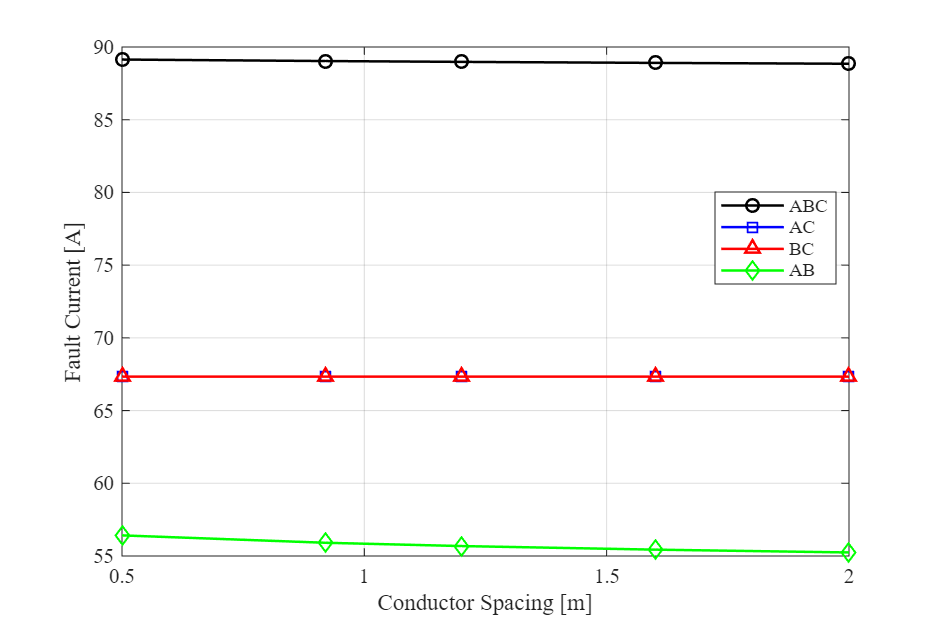
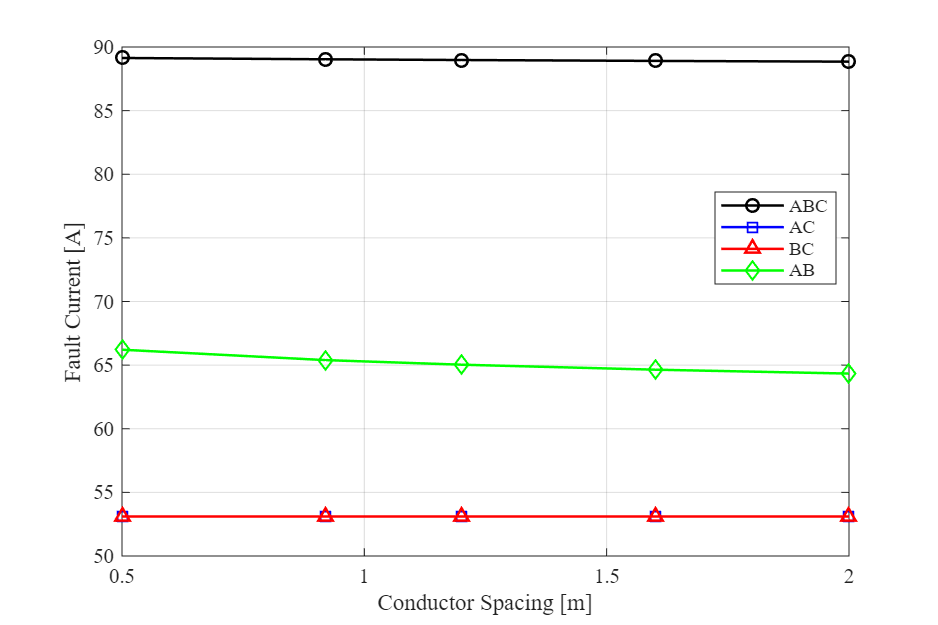
fix: conditional Zc model reduces AC/BC error from 20% to 5%
- calcCurtoT2F.m: implement conditional Zc by fault type:
  * AC/BC (single-phase-to-ground): Zc = Zsource + Ztri + Zp*d + Rti + Rcf
    (earth return via full line path, error ~5% vs OpenDSS)
  * ABC/AB (three-phase/phase-to-phase): Zc = Zsource + Ztri + Rti + Re + Rcf
    (concentrated equalization impedance, error <1% for ABC)
- defineFaltaT2F.m: fix AB fault to use Rf/2 per phase (total Rf between
  phases, consistent with OpenDSS modeling)
- CurtoCircuitoFim.m, CurtoCircuitoMeioLinha.m: same conditional logic
- TesteArtigo1.m: remove NRE/le variables (now handled inside functions)
- Regenerated all validation CSVs and sensitivity analysis

Final validation errors:
  ABC: 0.91% | AC: 5.04% | BC: 5.25% | AB: 8.08%
  Max error by length: 3.93% | Max error by position: 7.47%

diff --git a/calcCurtoT2F.m b/calcCurtoT2F.m
@@ -32,21 +32,32 @@ rm_val = real(Zm) * d * m1;
 lp = (imag(Zp)/(2*pi*f)) * d * m1;
 lm_val = (imag(Zm)/(2*pi*f)) * d * m1;
 
-% Equalization impedance (Ze = Zp - 2*Zm)
-Ze_comp = Zp - 2*Zm;
-re = real(Ze_comp) * d * m1 - rti - rtc;
-if re < 0
-    NRE = 1e-12;
-else
-    NRE = re;
-end
-le = 1e-10;  % equalization inductance neglected
-
 % Total mesh impedances
 Za = Ze_source + Ztri + rp + 1i*2*pi*f*lp + Raf;
 Zb = Ze_source + Ztri + rp + 1i*2*pi*f*lp + Rbf;
-Zc = Ze_source + Ztri + rti + NRE + 1i*2*pi*f*le + Rcf;
 ZmCC = rm_val + 1i*2*pi*f*lm_val;
+
+% Phase C impedance depends on fault type:
+% - For single-phase-to-ground faults (AC, BC): one aerial phase is open,
+%   current returns through the full line path. Zc includes Zp*d.
+% - For three-phase (ABC) or phase-to-phase (AB): concentrated earth path
+%   with equalization impedance Re = real(Zp-2Zm)*d - Rti - Rtc.
+is_single_phase_ground = (Raf > 1e4 || Rbf > 1e4) && (Rcf < 1e4);
+
+if is_single_phase_ground
+    % AC or BC fault: earth return via full line impedance
+    Zc = Ze_source + Ztri + rp + 1i*2*pi*f*lp + rti + Rcf;
+else
+    % ABC or AB fault: concentrated earth path
+    Ze_comp = Zp - 2*Zm;
+    re = real(Ze_comp) * d * m1 - rti - rtc;
+    if re < 0
+        NRE = 1e-12;
+    else
+        NRE = re;
+    end
+    Zc = Ze_source + Ztri + rti + NRE + Rcf;
+end
 
 % Phase voltages (star)
 Va = Vbase/sqrt(3) * exp(0);

diff --git a/TesteArtigo1.m b/TesteArtigo1.m
@@ -63,7 +63,7 @@ Cct=C(1,1)+C(2,1);   % Conductor-to-ground capacitance (F/km)
 Ccc=-C(2,1);          % Conductor-to-conductor capacitance (F/km)
 Ceq=Cct-Ccc;          % Equalization capacitance (F/km)
 
-% Equalization impedance
+% Equalization impedance (informational only, not used in fault calc)
 Ze = Zp-2*Zm;         % ohm/km
 
 % Series impedance
@@ -78,26 +78,16 @@ for compensada=[0 1 2]
     cct=Cct*d;
     rp=real(Zp)*d;
     rm=real(Zm)*d;
-    re=(real(Ze)*d)-rti-rtc;
-        if re<0
-            NRE=1e-12;
-        else
-            NRE=re;
-        end
     lp=(imag(Zp)/(2*pi*f))*d;
     lm=(imag(Zm)/(2*pi*f))*d;
-    le=1e-10;
 
         if compensada==0
-        cequa=0; 
-        NRE=1e-10;
-        le=1e-10;
+        cequa=0;
         % No compensation
         elseif compensada==1
-        NRE=1e-12;
         % C compensation
         elseif compensada==2
-        % RC compensation
+        % RC compensation (capacitive only, Re removed)
         end
     end
 end

diff --git a/defineFaltaT2F.m b/defineFaltaT2F.m
@@ -5,7 +5,8 @@ function [Raf, Rbf, Rcf] = defineFaltaT2F(type, Rf)
 %   1 - ABC (three-phase): Raf~0, Rbf~0, Rcf=Rf (ground)
 %   2 - AC (phase A-ground): Raf~0, Rbf=open, Rcf=Rf
 %   3 - BC (phase B-ground): Raf=open, Rbf~0, Rcf=Rf
-%   4 - AB (phase-to-phase aerial): Raf=Rf, Rbf=Rf, Rcf=open
+%   4 - AB (phase-to-phase aerial): Raf=Rf/2, Rbf=Rf/2, Rcf=open
+%        (Rf/2 per phase so total fault resistance between phases = Rf)
 
 switch type
     case 1  % ABC (three-phase)
@@ -21,8 +22,8 @@ switch type
         Rbf = 1e-5;
         Rcf = Rf;
     case 4  % AB (phase-to-phase aerial)
-        Raf = Rf;
-        Rbf = Rf;
+        Raf = Rf/2;
+        Rbf = Rf/2;
         Rcf = 1e6;
     otherwise
         error('Invalid fault type: %d', type);

diff --git a/CurtoCircuitoMeioLinha.m b/CurtoCircuitoMeioLinha.m
@@ -9,7 +9,16 @@ Ztri=2*(0.0048119 +i*0.018511)*Zbase;
 
 Za = Ze+Ztri+((rp)*m1)+i*2*pi*60*((lp)*m1)+Raf;
 Zb = Ze+Ztri+((rp)*m1)+i*2*pi*60*((lp)*m1)+Rbf;
-Zc = Ze+Ztri+rti+NRE+i*2*pi*60*(le*m1)+Rcf;
+
+% Conditional Zc: AC/BC uses Zp*d, ABC/AB uses NRE
+is_single_phase_ground = (Raf > 1e4 || Rbf > 1e4) && (Rcf < 1e4);
+if is_single_phase_ground
+    Zc = Ze+Ztri+((rp)*m1)+i*2*pi*60*((lp)*m1)+rti+Rcf;
+else
+    NRE_val = real(Zp-2*Zm)*d*m1 - rti - rtc;
+    if NRE_val < 0, NRE_val = 1e-12; end
+    Zc = Ze+Ztri+rti+NRE_val+Rcf;
+end
 % Zm defined for fault at HV side, before consumer transformers
 ZmCC = ((rm)*m1)+i*2*pi*60*((lm)*m1);
 

diff --git a/CurtoCircuitoFim.m b/CurtoCircuitoFim.m
@@ -8,7 +8,16 @@ Ztri=2*(0.0048119 +i*0.018511)*Zbase;
 %% TPTW Line Impedances
 Za=Ze+Ztri+rp+i*2*pi*60*lp+Raf;
 Zb=Ze+Ztri+rp+i*2*pi*60*lp+Rbf;
-Zc=Ze+Ztri+rti+NRE+i*2*pi*60*le+Rcf; %% for faults before consumer transformer
+
+% Conditional Zc: AC/BC uses Zp*d, ABC/AB uses NRE
+is_single_phase_ground = (Raf > 1e4 || Rbf > 1e4) && (Rcf < 1e4);
+if is_single_phase_ground
+    Zc=Ze+Ztri+rp+i*2*pi*60*lp+rti+Rcf;
+else
+    NRE_val = real(Zp-2*Zm)*d - rti - rtc;
+    if NRE_val < 0, NRE_val = 1e-12; end
+    Zc=Ze+Ztri+rti+NRE_val+Rcf;
+end
 Zm=rm+i*2*pi*60*lm;
 
 %% Phase Voltages
